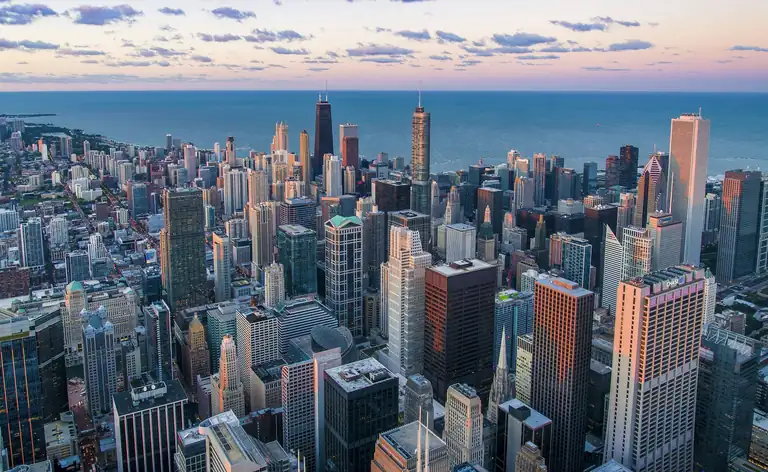
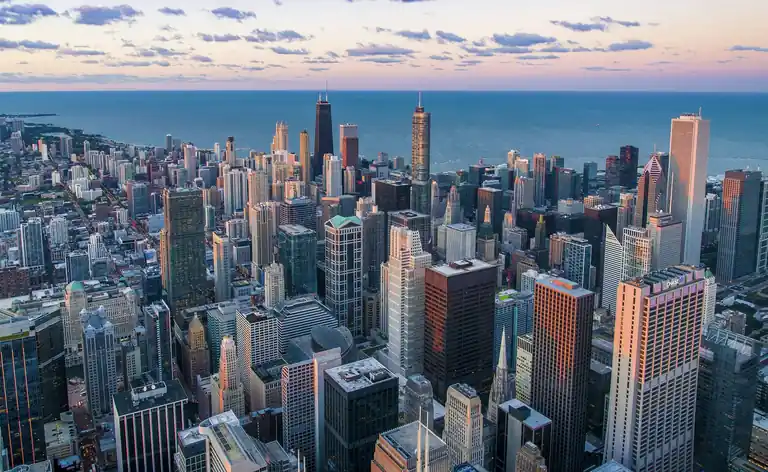
fix(landing): remove aria-hidden on static hero so Chrome picks it as LCP
After #519 the static <picture> was visible on mobile but Lighthouse
mobile LCP element was the React-rendered LogoBanner SVG (~6.3 s,
waiting for hydration) instead of the city image (~0.6 s). Chrome's
LCP heuristic excludes elements marked aria-hidden="true" as
candidates — alt="" alone is enough to keep the decorative image out
of screen-reader reading order, so dropping aria-hidden costs nothing
and unlocks the image as the LCP candidate.

Also re-encoded hero-city-768.webp at quality=40 (59 → 46 KiB).
Smaller bytes-on-the-wire = less time spent on partial network
chunks during the WebP decode, addressing the "half-loads then
completes" flash you saw on mobile. decoding="sync" + preload +
fetchpriority="high" should now paint the image atomically.

diff --git a/frontend/index.html b/frontend/index.html
@@ -51,14 +51,15 @@
     <meta property="og:type" content="website" />
     <meta property="og:locale" content="he_IL" />
 
-    <!-- Static hero image: the hero is the mobile LCP element. Rendering its
-         <picture> outside #root lets the browser paint it at HTML-parse time
-         instead of waiting for React to render LandingPage's <picture> after
-         hydration (was the LCP floor — see #489, #497, #500). position:fixed
-         + z-index:-1 keeps it as a permanent page background that React
-         never touches; routes with opaque bg-page/bg-void cover it on
-         subpages where the city image isn't relevant. The previous "RS
-         Recruiting" splash is gone — the image *is* the LCP now. -->
+    <!-- Static hero image: paints at HTML-parse time so the hero is the
+         LCP element instead of waiting for React hydration (see #489-#519).
+         No aria-hidden — Chrome's LCP heuristic was excluding the element
+         from LCP candidates with aria-hidden set, falling back to a small
+         React-rendered SVG logo and reverting the mobile LCP to ~6 s.
+         alt="" still keeps it out of assistive-tech reading order.
+         decoding="sync" + preload + fetchpriority="high" tells the browser
+         to fetch the bytes early and paint the image atomically (no
+         progressive scans visible). -->
     <style>
       html { background: #0D0B09; }
       body { background: transparent; margin: 0; }
@@ -75,7 +76,7 @@
     </style>
   </head>
   <body>
-    <picture aria-hidden="true">
+    <picture>
       <source
         type="image/webp"
         srcset="/hero-city-768.webp 768w, /hero-city.webp 1920w"